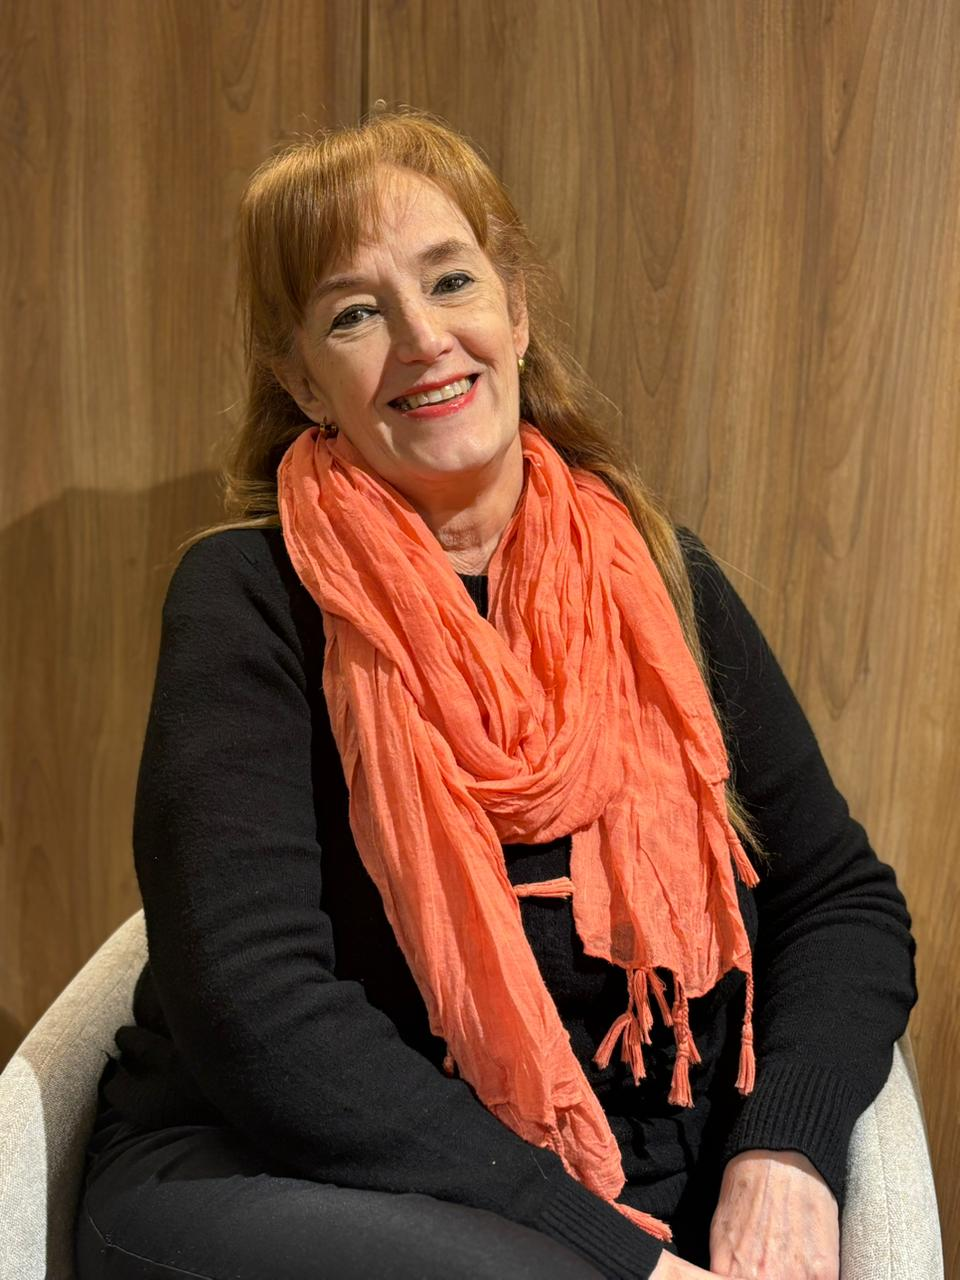
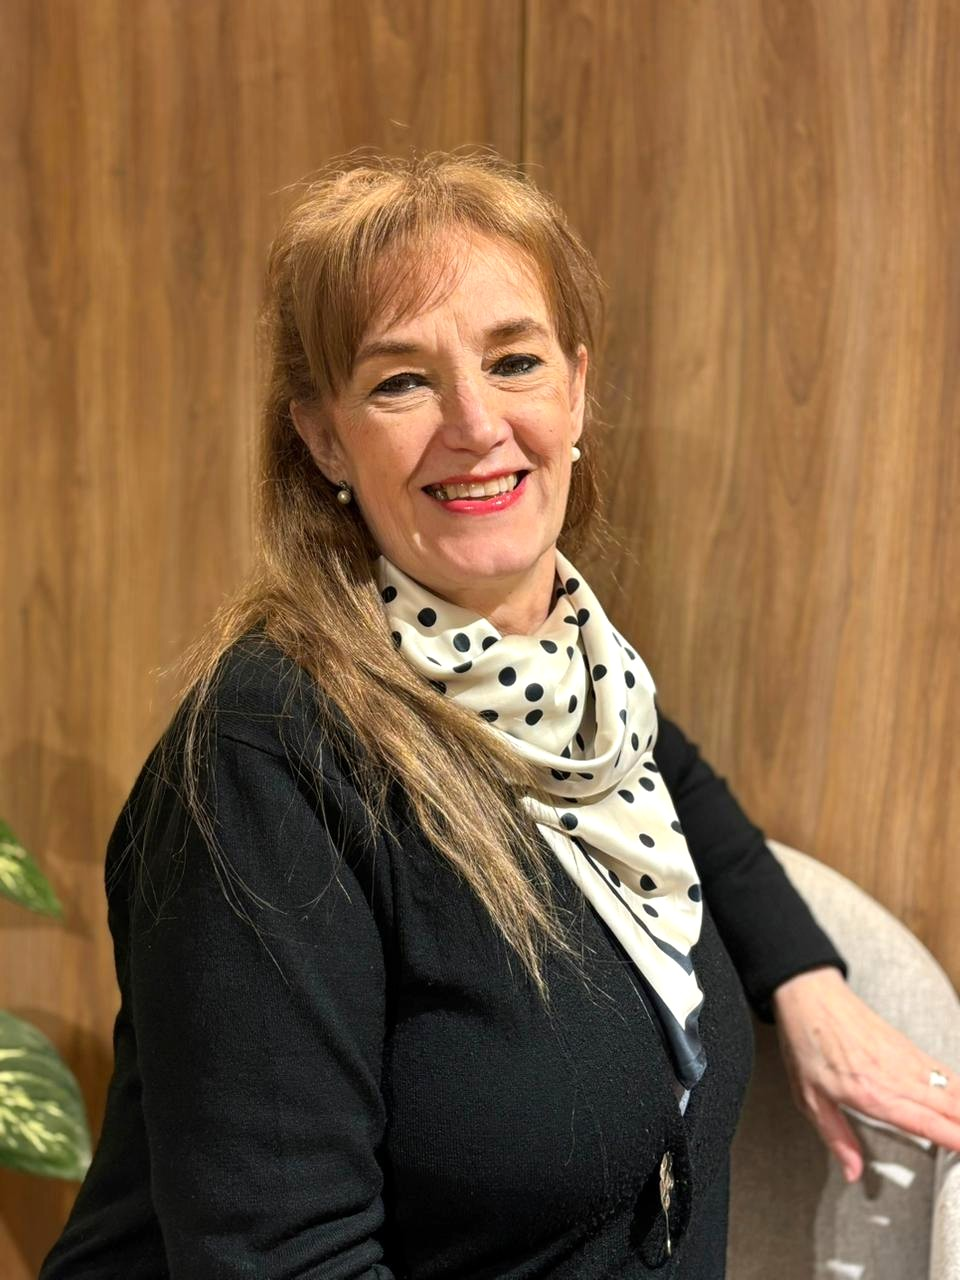
Subiendo cambios team section

diff --git a/src/data/team.js b/src/data/team.js
@@ -5,12 +5,12 @@ export const team = [
     alt: "Imagen del contador olr",
   },
   {
-    image: "/Franco-2.jpeg",
+    image: "/Franco4.jpg",
     subtitle: "CPN López Rios, Franco",
     alt: "contador franco lr",
   },
   {
-    image: "/Mocho-2.jpeg",
+    image: "/Osvaldo2.jpg",
     subtitle: "Dr López Rios, Osvaldo",
     alt: "doctor osvaldo lr",
   },
@@ -25,7 +25,7 @@ export const team = [
     alt: "area de impuestos",
   },
   {
-    image: "/FedericoGalvez.jpeg",
+    image: "/Galvez5.jpg",
     subtitle: "CPN Gálvez, Federico",
     alt: "auditoria",
   },
@@ -35,7 +35,7 @@ export const team = [
     alt: "impuestos luciana",
   },
   {
-    image: "/Patricia-2.jpg",
+    image: "/Patricia.jpeg",
     subtitle: "Cudugnello, Patricia",
     alt: "area laboral",
   },
